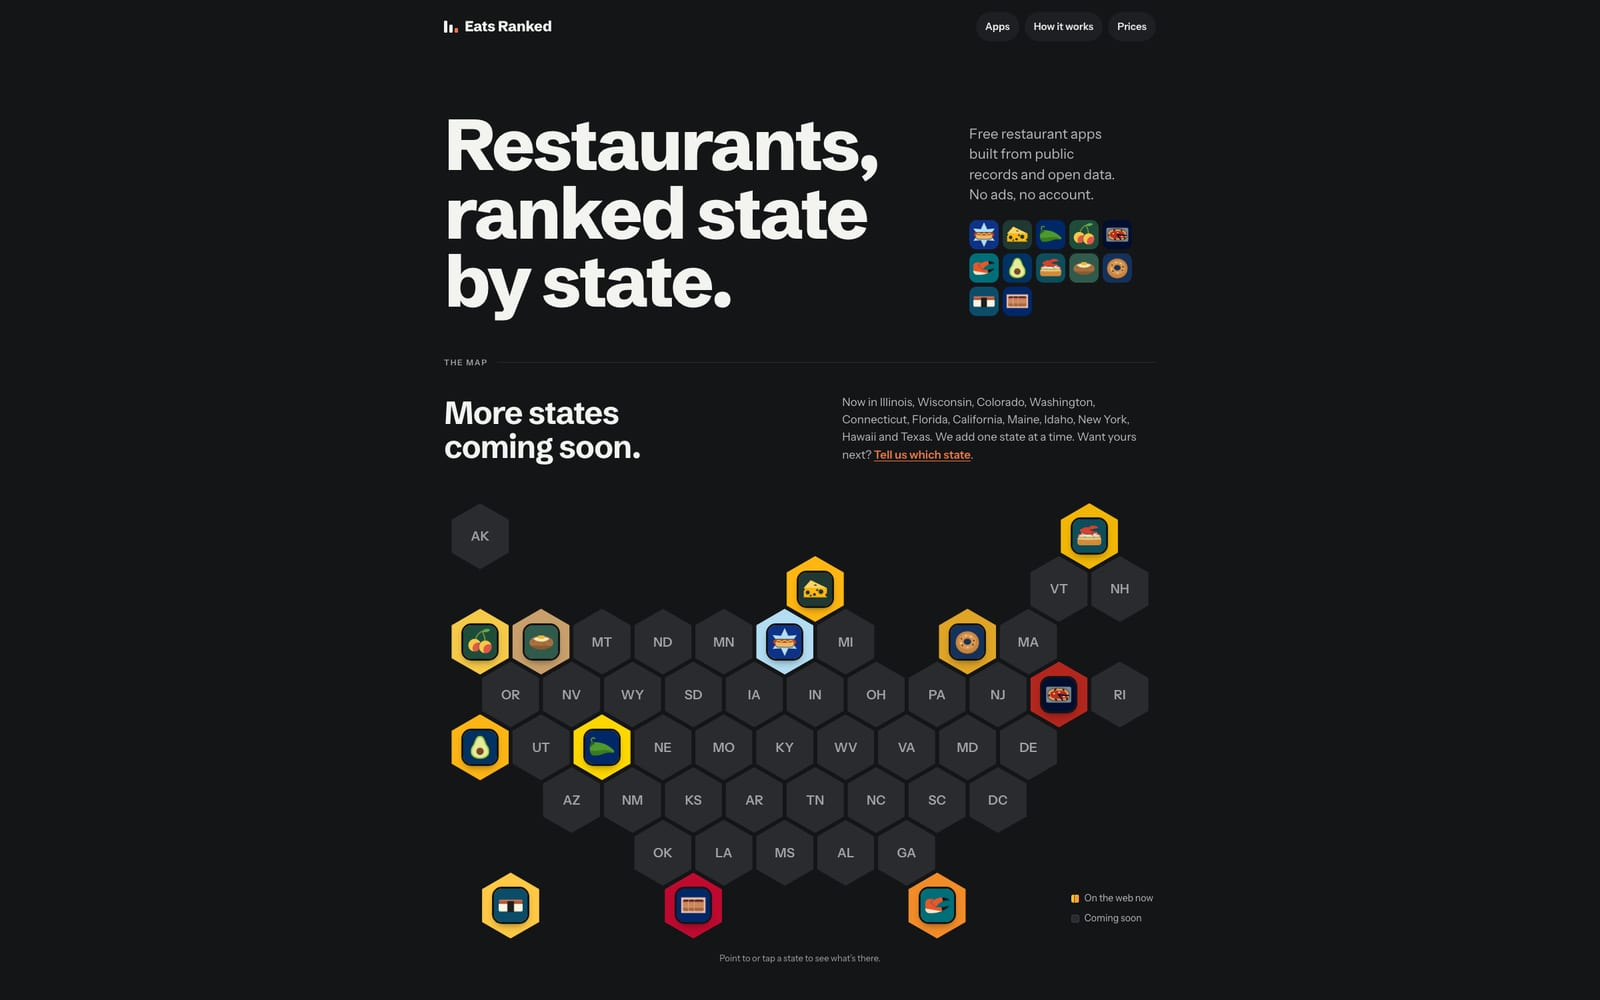
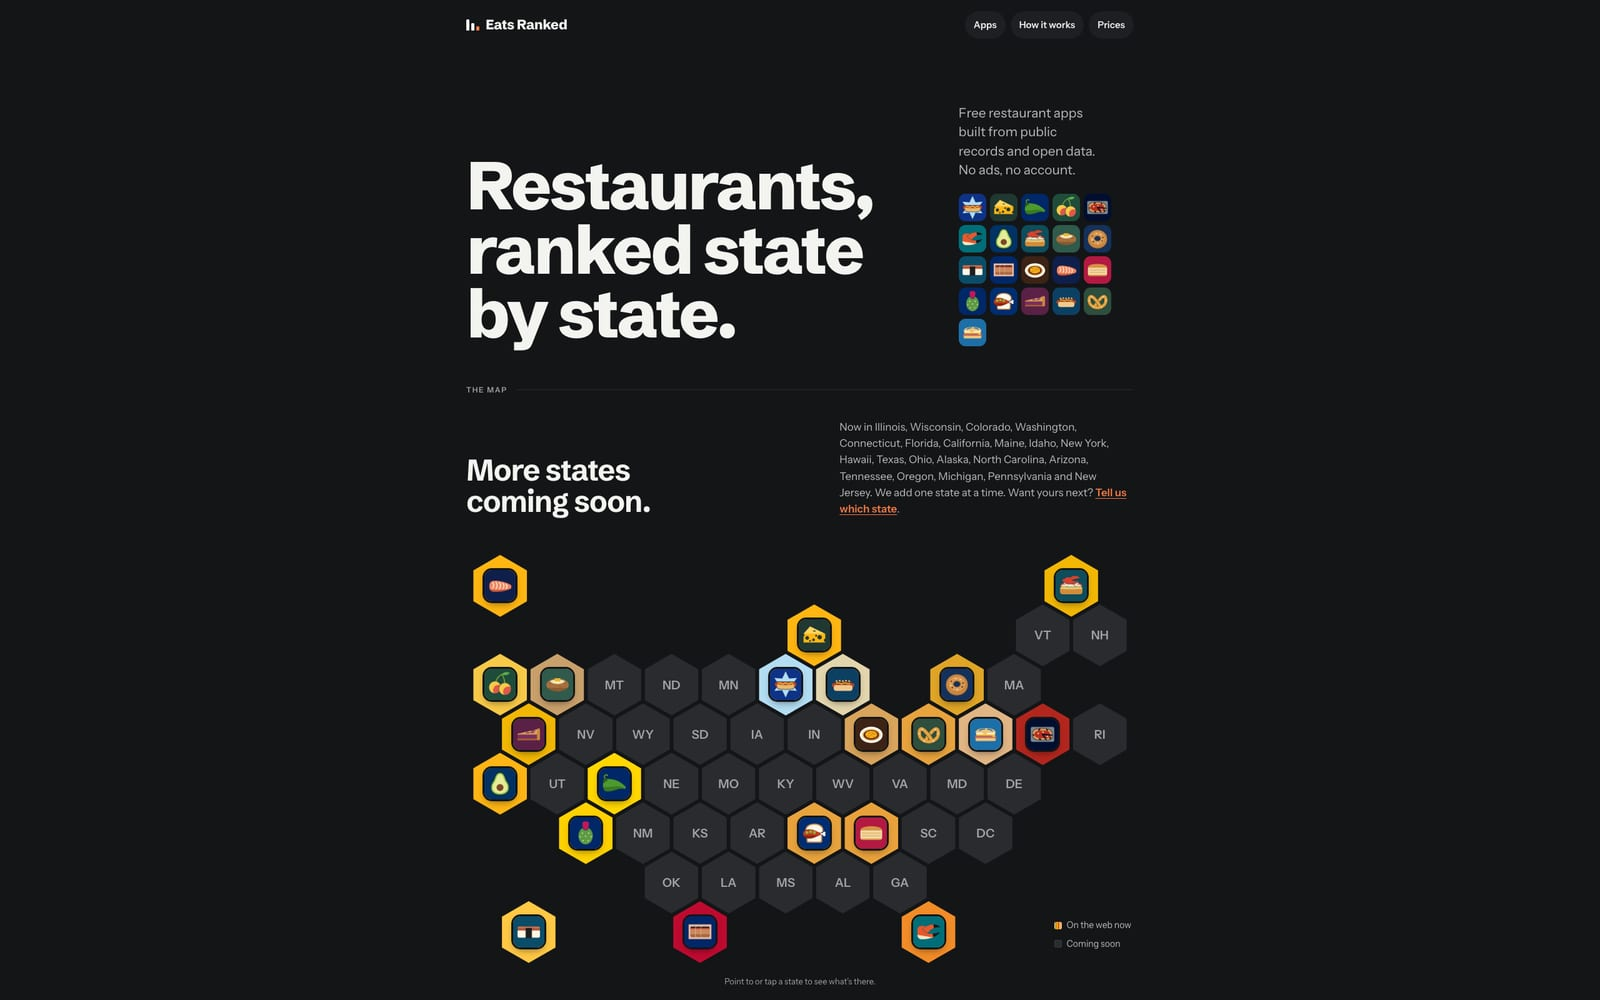
Eats Ranked: fresh eatsranked.com screenshots (21 states, Chicago on the App Store) (#138)
Recaptured from the live site after eatsranked#2: the map with all 21 live
states (light and dark, same 1600x1000 framing; the taller map is captured
at 2560x1600 so its footnote fits) and the app cards, where Chicago's card
now says "Download on the App Store". The cards image's alt text says so.

diff --git a/src/data/showcase.ts b/src/data/showcase.ts
@@ -113,7 +113,7 @@ export const projects: Project[] = [
       screen: 'image',
       image: '/showcase/eatsranked-guides.jpg',
       frame: 'laptop',
-      alt: 'eatsranked.com, Restaurant guides by state: the cards for Chicago Restaurants: Ranked, Wisconsin Eats, Colorado Eats and Washington Eats, each with its icon, its tagline, a link to its website and “Coming soon to the App Store”',
+      alt: 'eatsranked.com, Restaurant guides by state: the cards for Chicago Restaurants: Ranked, Wisconsin Eats, Colorado Eats and Washington Eats, each with its icon, its tagline and a link to its website; Chicago’s card links to the App Store and the others say “Coming soon to the App Store”',
     },
     siteShot: {
       desktop: '/showcase/eatsranked-site.jpg',
